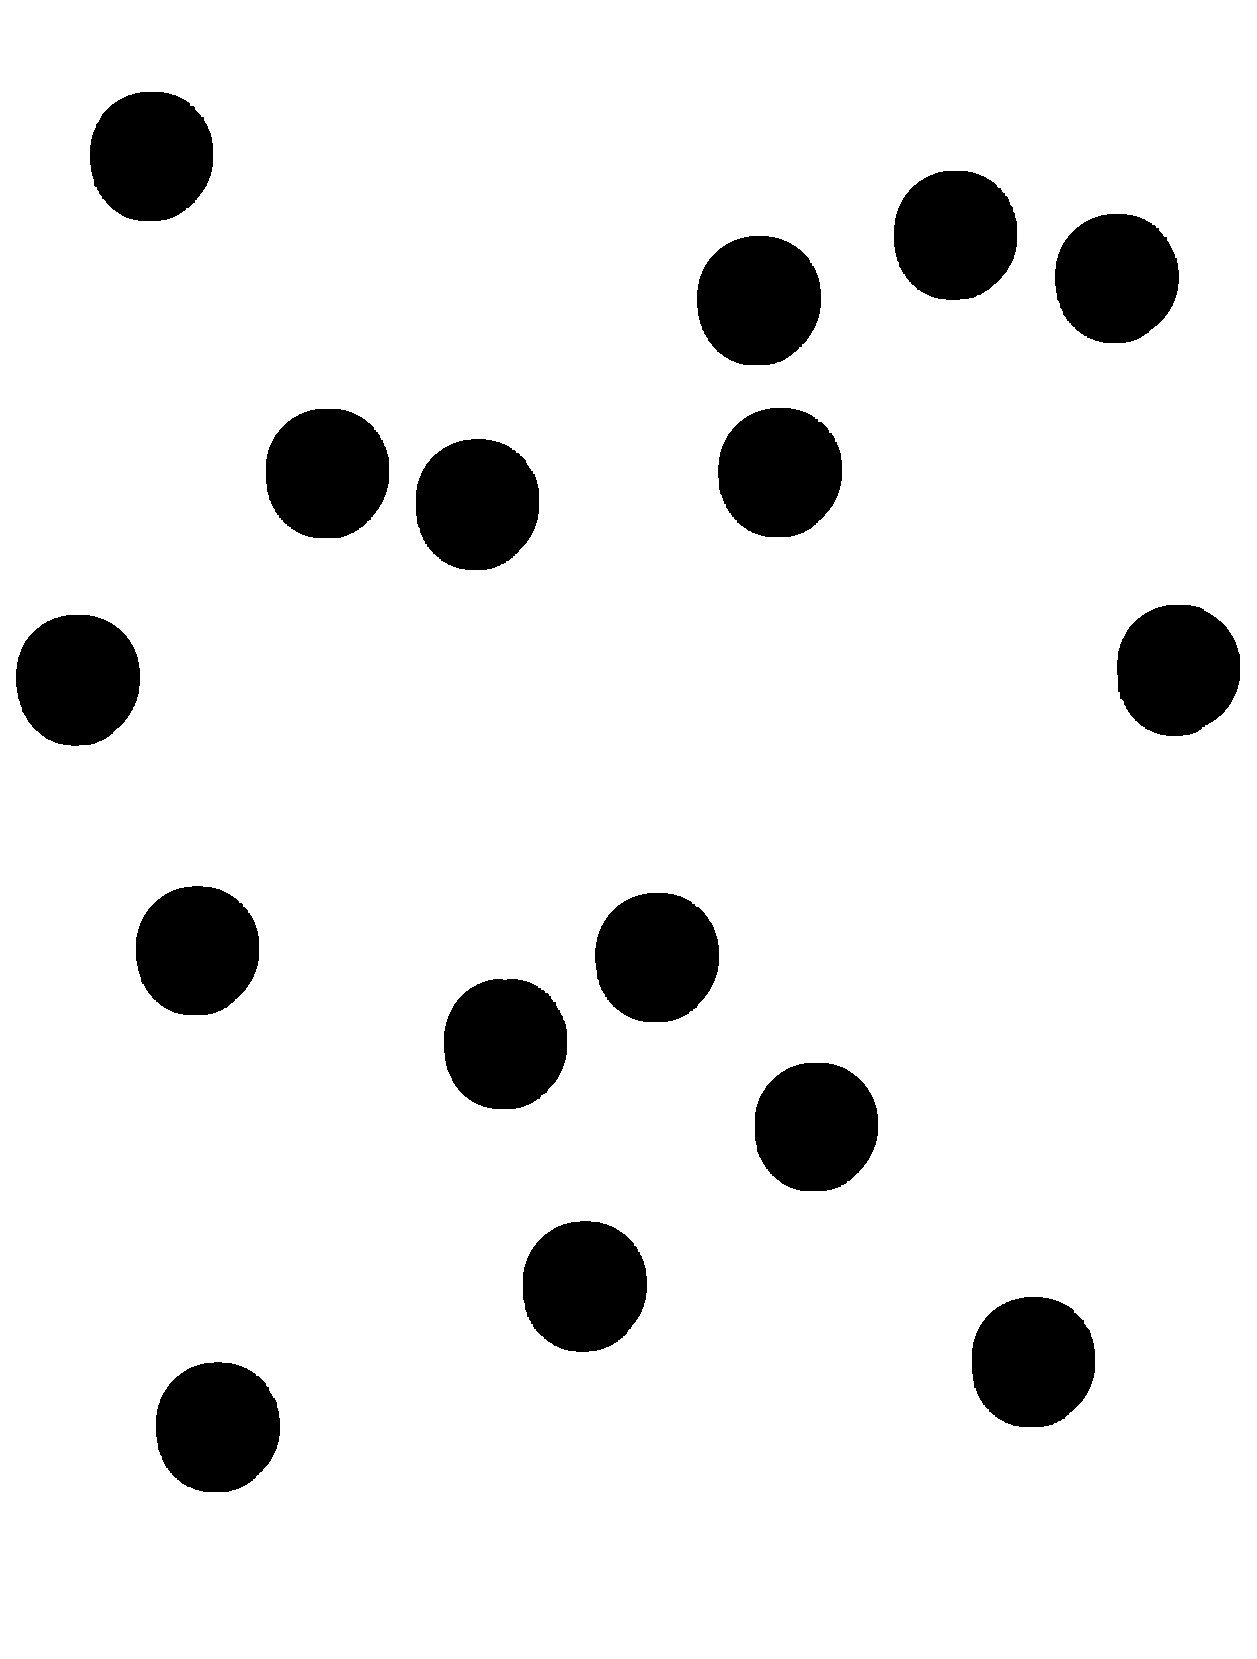
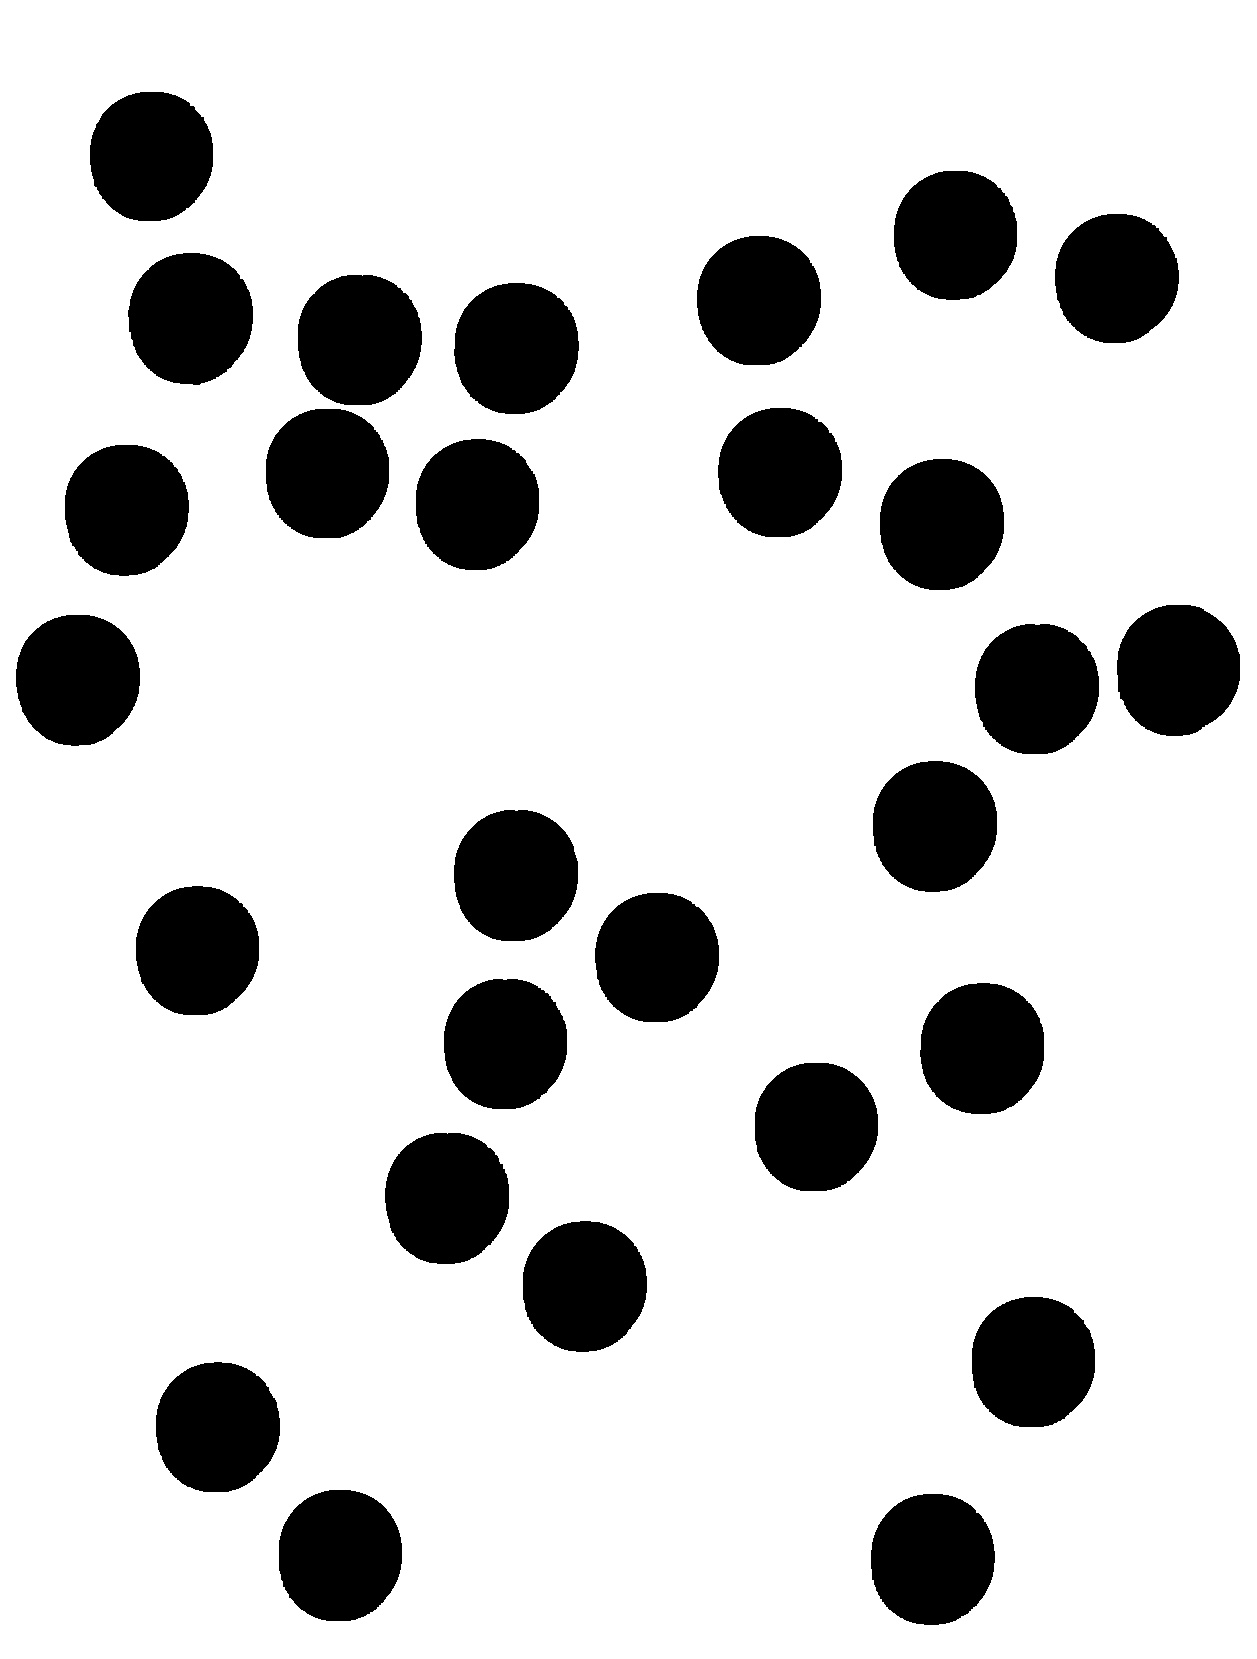
fix: tweak area threshold to catch missing coins

diff --git a/count1.py b/count1.py
@@ -49,7 +49,7 @@ for i in range(1, totalLabels):
     area = stats[i, cv.CC_STAT_AREA]
 
     #   look for components that fit the area
-    if area > 12000 and area < 13000:
+    if area > 12000 and area < 14000:
         #   filters detected label from the mask
         componentMask = (labels == i).astype("uint8") * 255
         mask = cv.bitwise_or(mask, componentMask)
